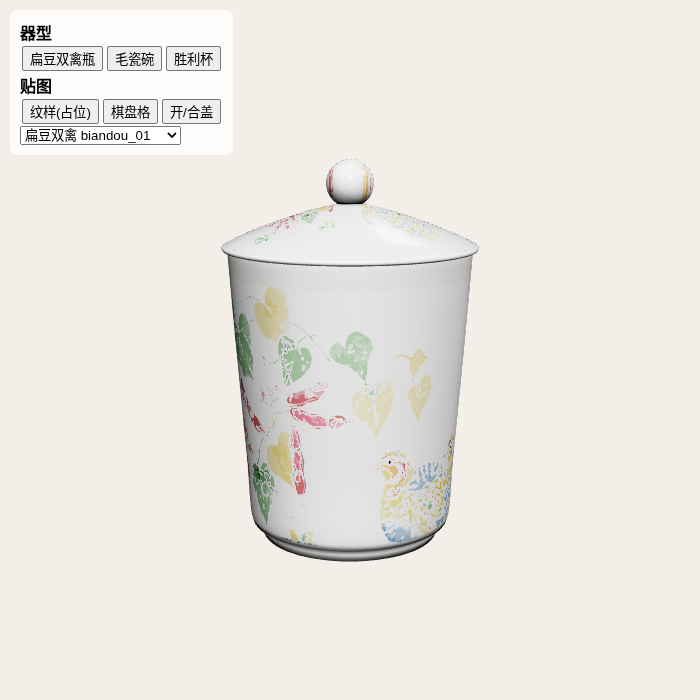
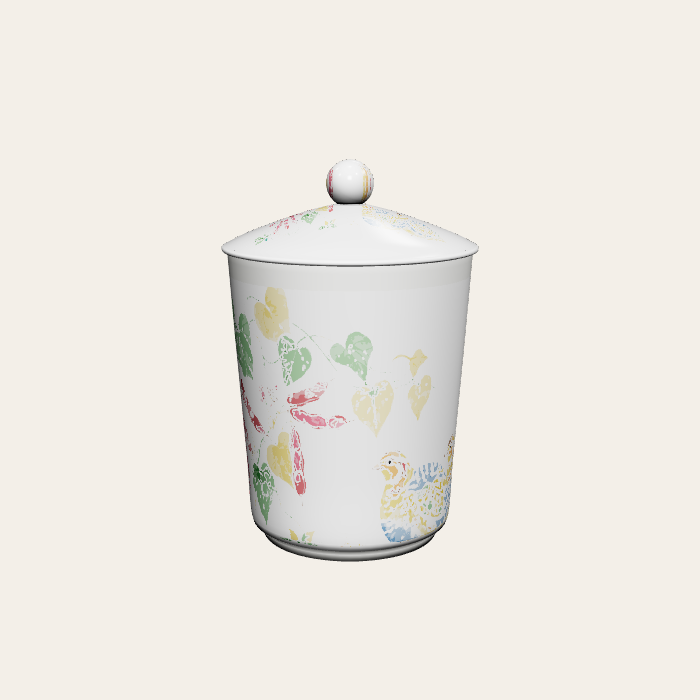
手机首屏、表格卡片化、溯源页去手机框；缩略图去掉调试面板

Changed region(s): [[0.03, 0.03, 0.33, 0.21]]

diff --git a/app.js b/app.js
@@ -26,14 +26,14 @@ async function ensureViewer(show){stage.classList.toggle('on',!!show);if(!show)r
 function bar(html){vbar.innerHTML=html}
 // ---------- 页面 ----------
 const P={};
-P.dash=()=>{main.innerHTML=`<h2>工作台</h2><div class="sub">今日概览</div>
+P.dash=()=>{main.innerHTML=`<div class="mhero"><img src="lib_cup_shengli_13p8_v3_mudan_02.png"><div class="mh-t">醴陵釉下五彩 · AI 纹样定制</div><div class="mh-s">选器型、生成纹样、3D 确稿、工艺校验、一键出花纸稿，单件打样不再反复试烧</div><button class="btn p mh-b" id="mb">开始定制 →</button></div><h2>工作台</h2><div class="sub">今日概览</div>
  <div class="grid g4">${[['近期定制单','3 单'],['标准器型','3 款'],['纹样库','5 题材 · 20 款'],['工艺校验规则','3 项']].map(([a,b])=>`<div class="card kpi"><span>${a}</span><b>${b}</b></div>`).join('')}</div>
  <div class="grid g2"><div class="card"><b>打样周期对比</b><p class="note">传统：微信改稿 + 实物打样，每轮 400–2000 元、7–15 天（公开报价）<br>平台：在线 3D 确稿 + 工艺校验后出花纸稿，目标实物打样压到一次（设计目标，非实测）</p>
  <div class="row"><span style="width:60px" class="note">传统</span><div class="prog" style="flex:1;height:14px"><i style="width:100%;background:#c9bfb2"></i></div><span class="note">7–15 天</span></div>
  <div class="row" style="margin-top:8px"><span style="width:60px" class="note">平台</span><div class="prog" style="flex:1;height:14px"><i style="width:12%"></i></div><span class="note">1–2 天</span></div></div>
  <div class="card"><b>待处理</b><table style="margin-top:8px"><tr><td>${ORDER.no}</td><td>${ORDER.customer}</td><td>胜利杯 × ${ORDER.qty}</td><td><span class="tag warn">待设计</span></td></tr>
  <tr><td>DZ-20261029-0016</td><td>长沙某银行</td><td>毛瓷碗 × 300</td><td><span class="tag ok">生产中</span></td></tr><tr><td>DZ-20261027-0011</td><td>株洲某科技公司</td><td>凤尾尊 × 20</td><td><span class="tag">已发货</span></td></tr></table>
- <div class="row" style="margin-top:12px"><button class="btn p" id="b">处理 ${ORDER.no} →</button></div></div></div>`;$('#b').onclick=()=>next('order')};
+ <div class="row" style="margin-top:12px"><button class="btn p" id="b">处理 ${ORDER.no} →</button></div></div></div>`;$('#b').onclick=()=>next('order');$('#mb').onclick=()=>next('order')};
 P.order=()=>{main.innerHTML=`<h2>订单需求</h2><div class="sub">客户在微信/电话里提的需求，录入为结构化定制单</div>
  <div class="card"><table><tr><th>定制单号</th><td>${ORDER.no}</td></tr><tr><th>客户</th><td>${ORDER.customer}（${ORDER.contact}）</td></tr><tr><th>产品</th><td>${ORDER.product}</td></tr><tr><th>数量</th><td>${ORDER.qty} 只</td></tr><tr><th>期望交期</th><td>${ORDER.due}</td></tr><tr><th>题材偏好</th><td>${ORDER.theme}</td></tr><tr><th>需求描述</th><td>${ORDER.brief}</td></tr><tr><th>工艺</th><td>釉下五彩 · 釉下小膜花纸贴花 + 手工分水补色</td></tr></table></div>
  <button class="btn p" id="b">开始设计 →</button>`;$('#b').onclick=()=>next('vessel')};

diff --git a/app.css b/app.css
@@ -50,3 +50,14 @@ table{font-size:12px}th{width:84px}td,th{padding:6px}
 .wo{padding:14px}.phone{width:100%;max-width:400px;border-width:6px}
 }
 @media (max-width:820px) and (orientation:landscape){#wrap{flex-direction:row;flex-wrap:wrap}#wrap>nav{width:100%}aside{width:48%;order:0}#v3d{height:calc(100vh - 110px);min-height:0}main{flex:1;min-width:0}}
+
+.mhero{display:none}
+@media (max-width:820px){
+.mhero{display:block;margin:-14px -12px 16px;padding:18px 16px 20px;background:linear-gradient(180deg,#fff,#f6f2ea);text-align:center;border-bottom:1px solid var(--line)}
+.mhero img{width:72%;max-width:300px;aspect-ratio:1;object-fit:contain;display:block;margin:0 auto 8px}
+.mh-t{font-size:20px;font-weight:700;color:var(--ink)}.mh-s{font-size:14px;color:var(--mut);margin:6px 8px 14px;line-height:1.6}.mh-b{font-size:16px;padding:12px 32px;border-radius:24px}
+body,.note,table,.tag,.sub{font-size:14px}.note{line-height:1.6}
+.card table tr{display:grid;grid-template-columns:1fr 1fr;border-bottom:1px solid var(--line)}.card table td{border:0}
+.card table:has(th) tr{display:table-row}
+.phone{border:0;border-radius:14px;box-shadow:none;max-width:none}
+}
